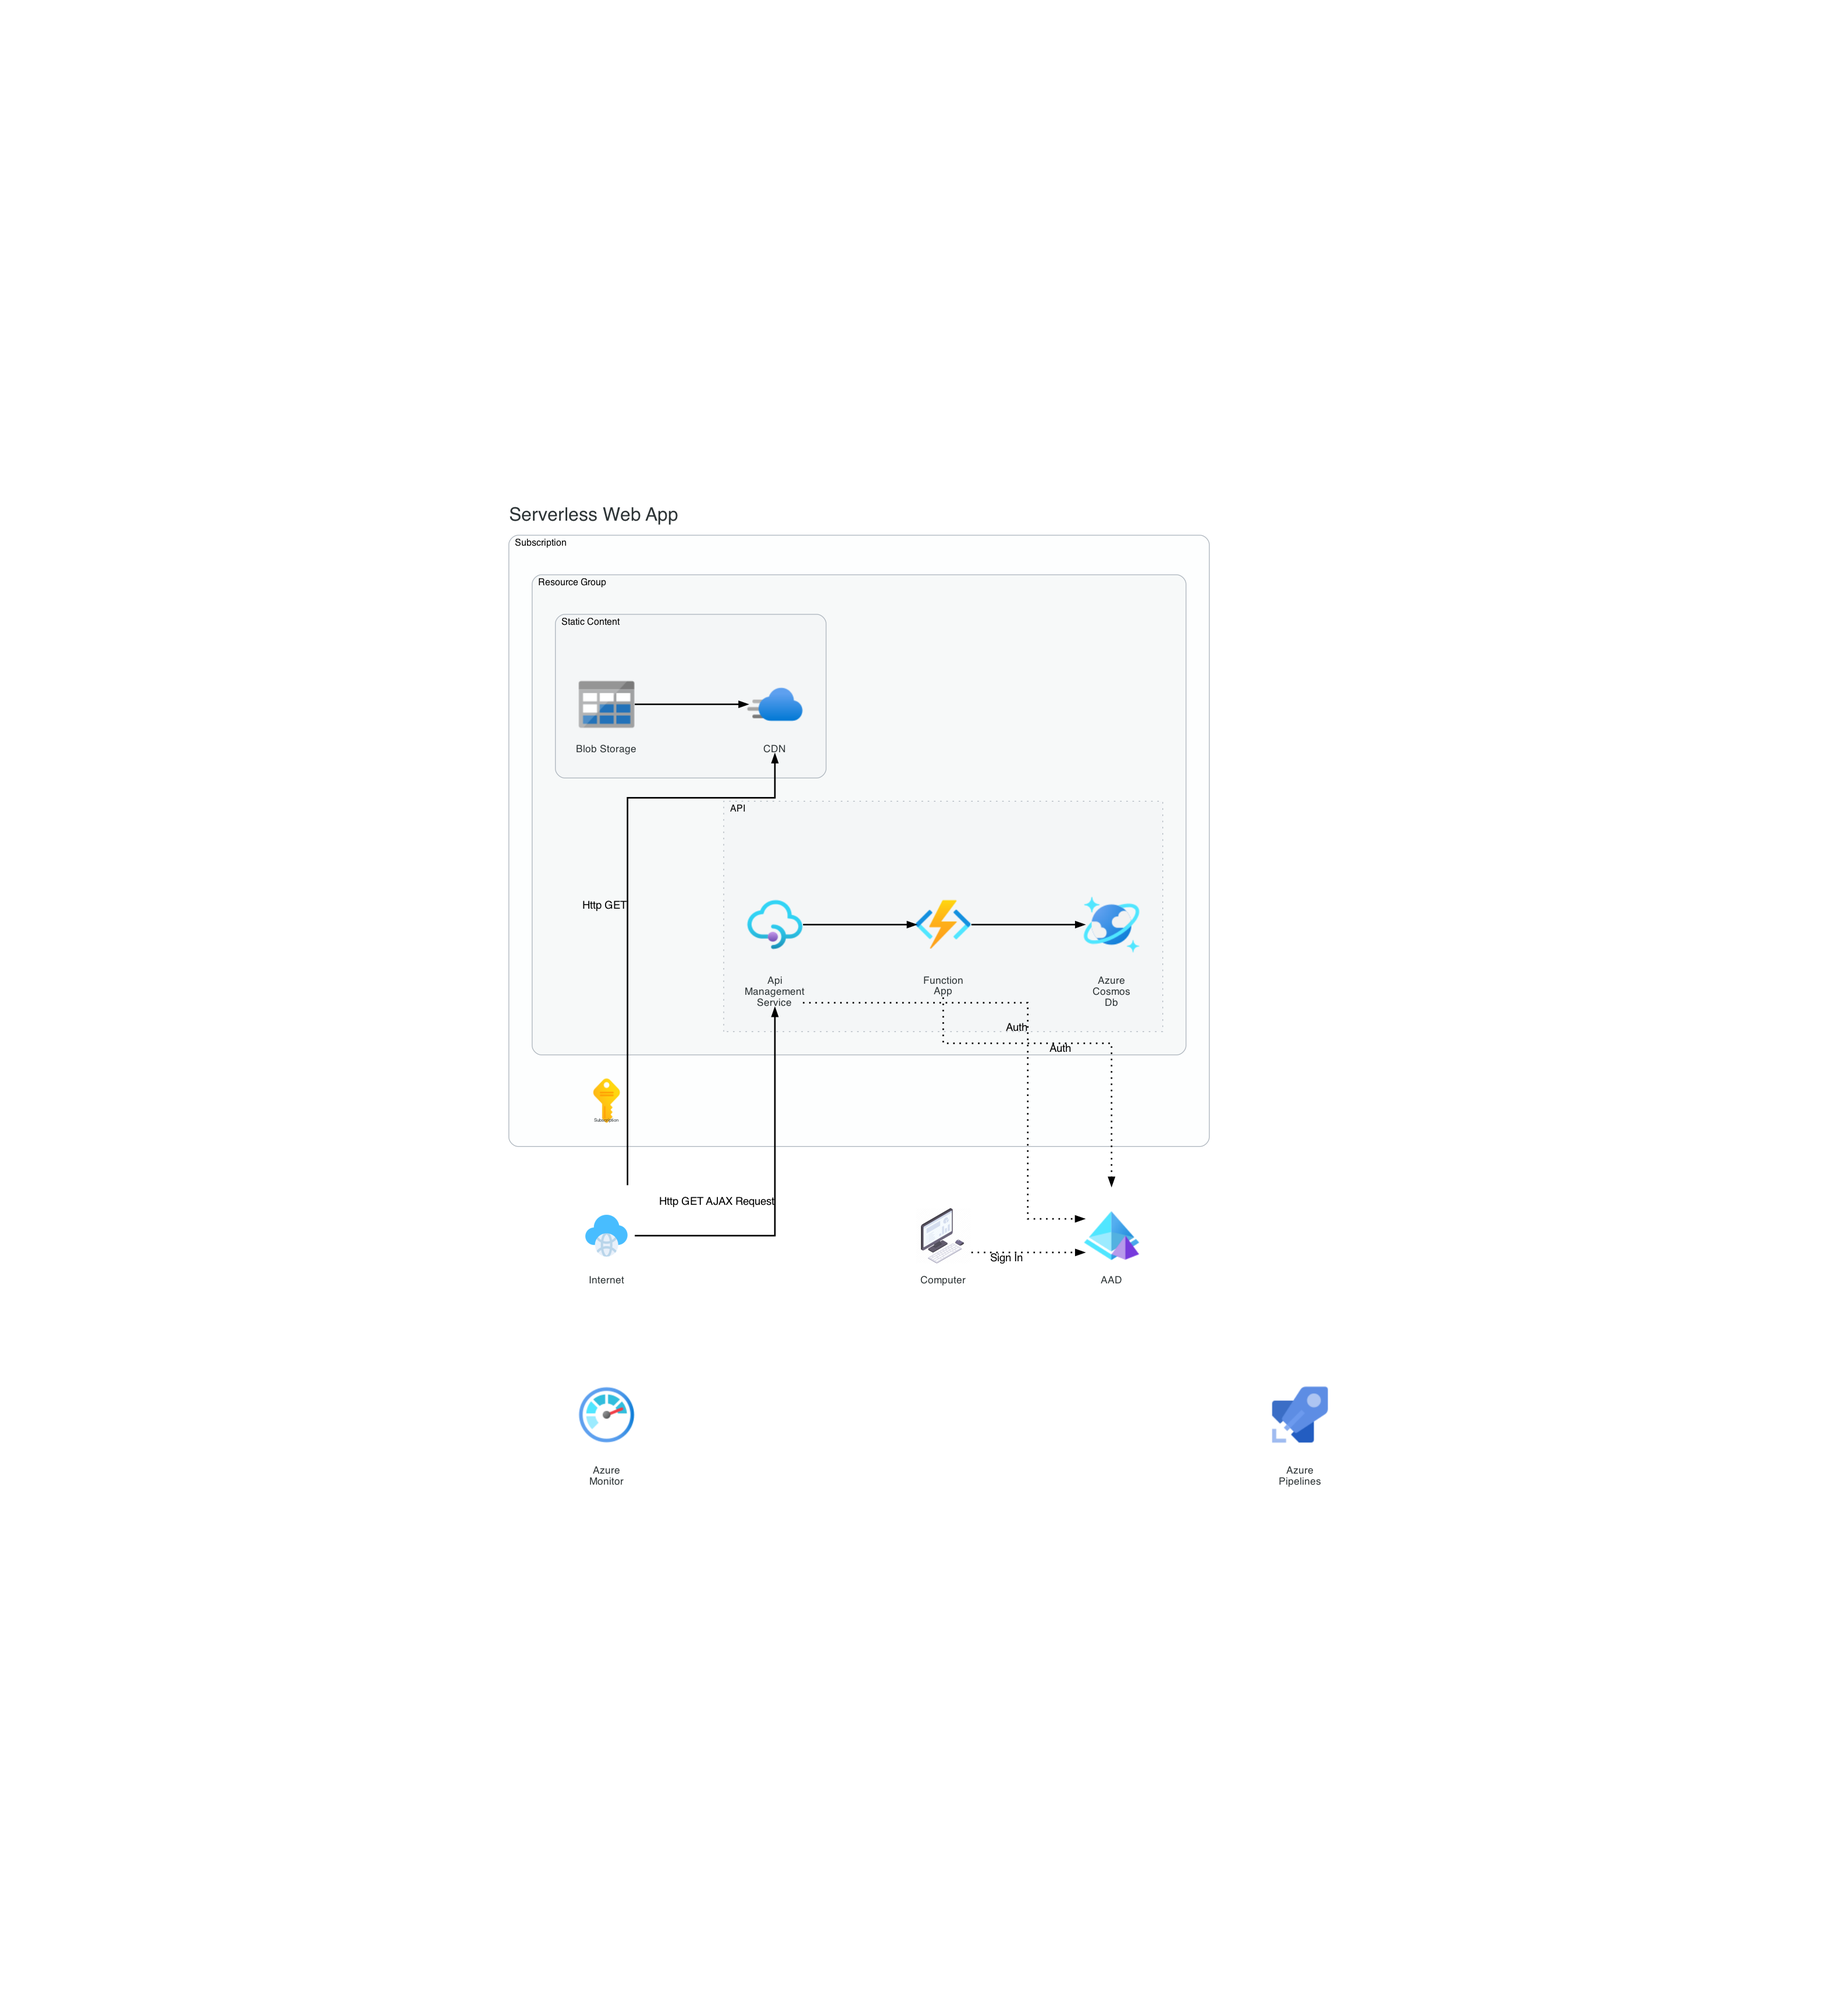
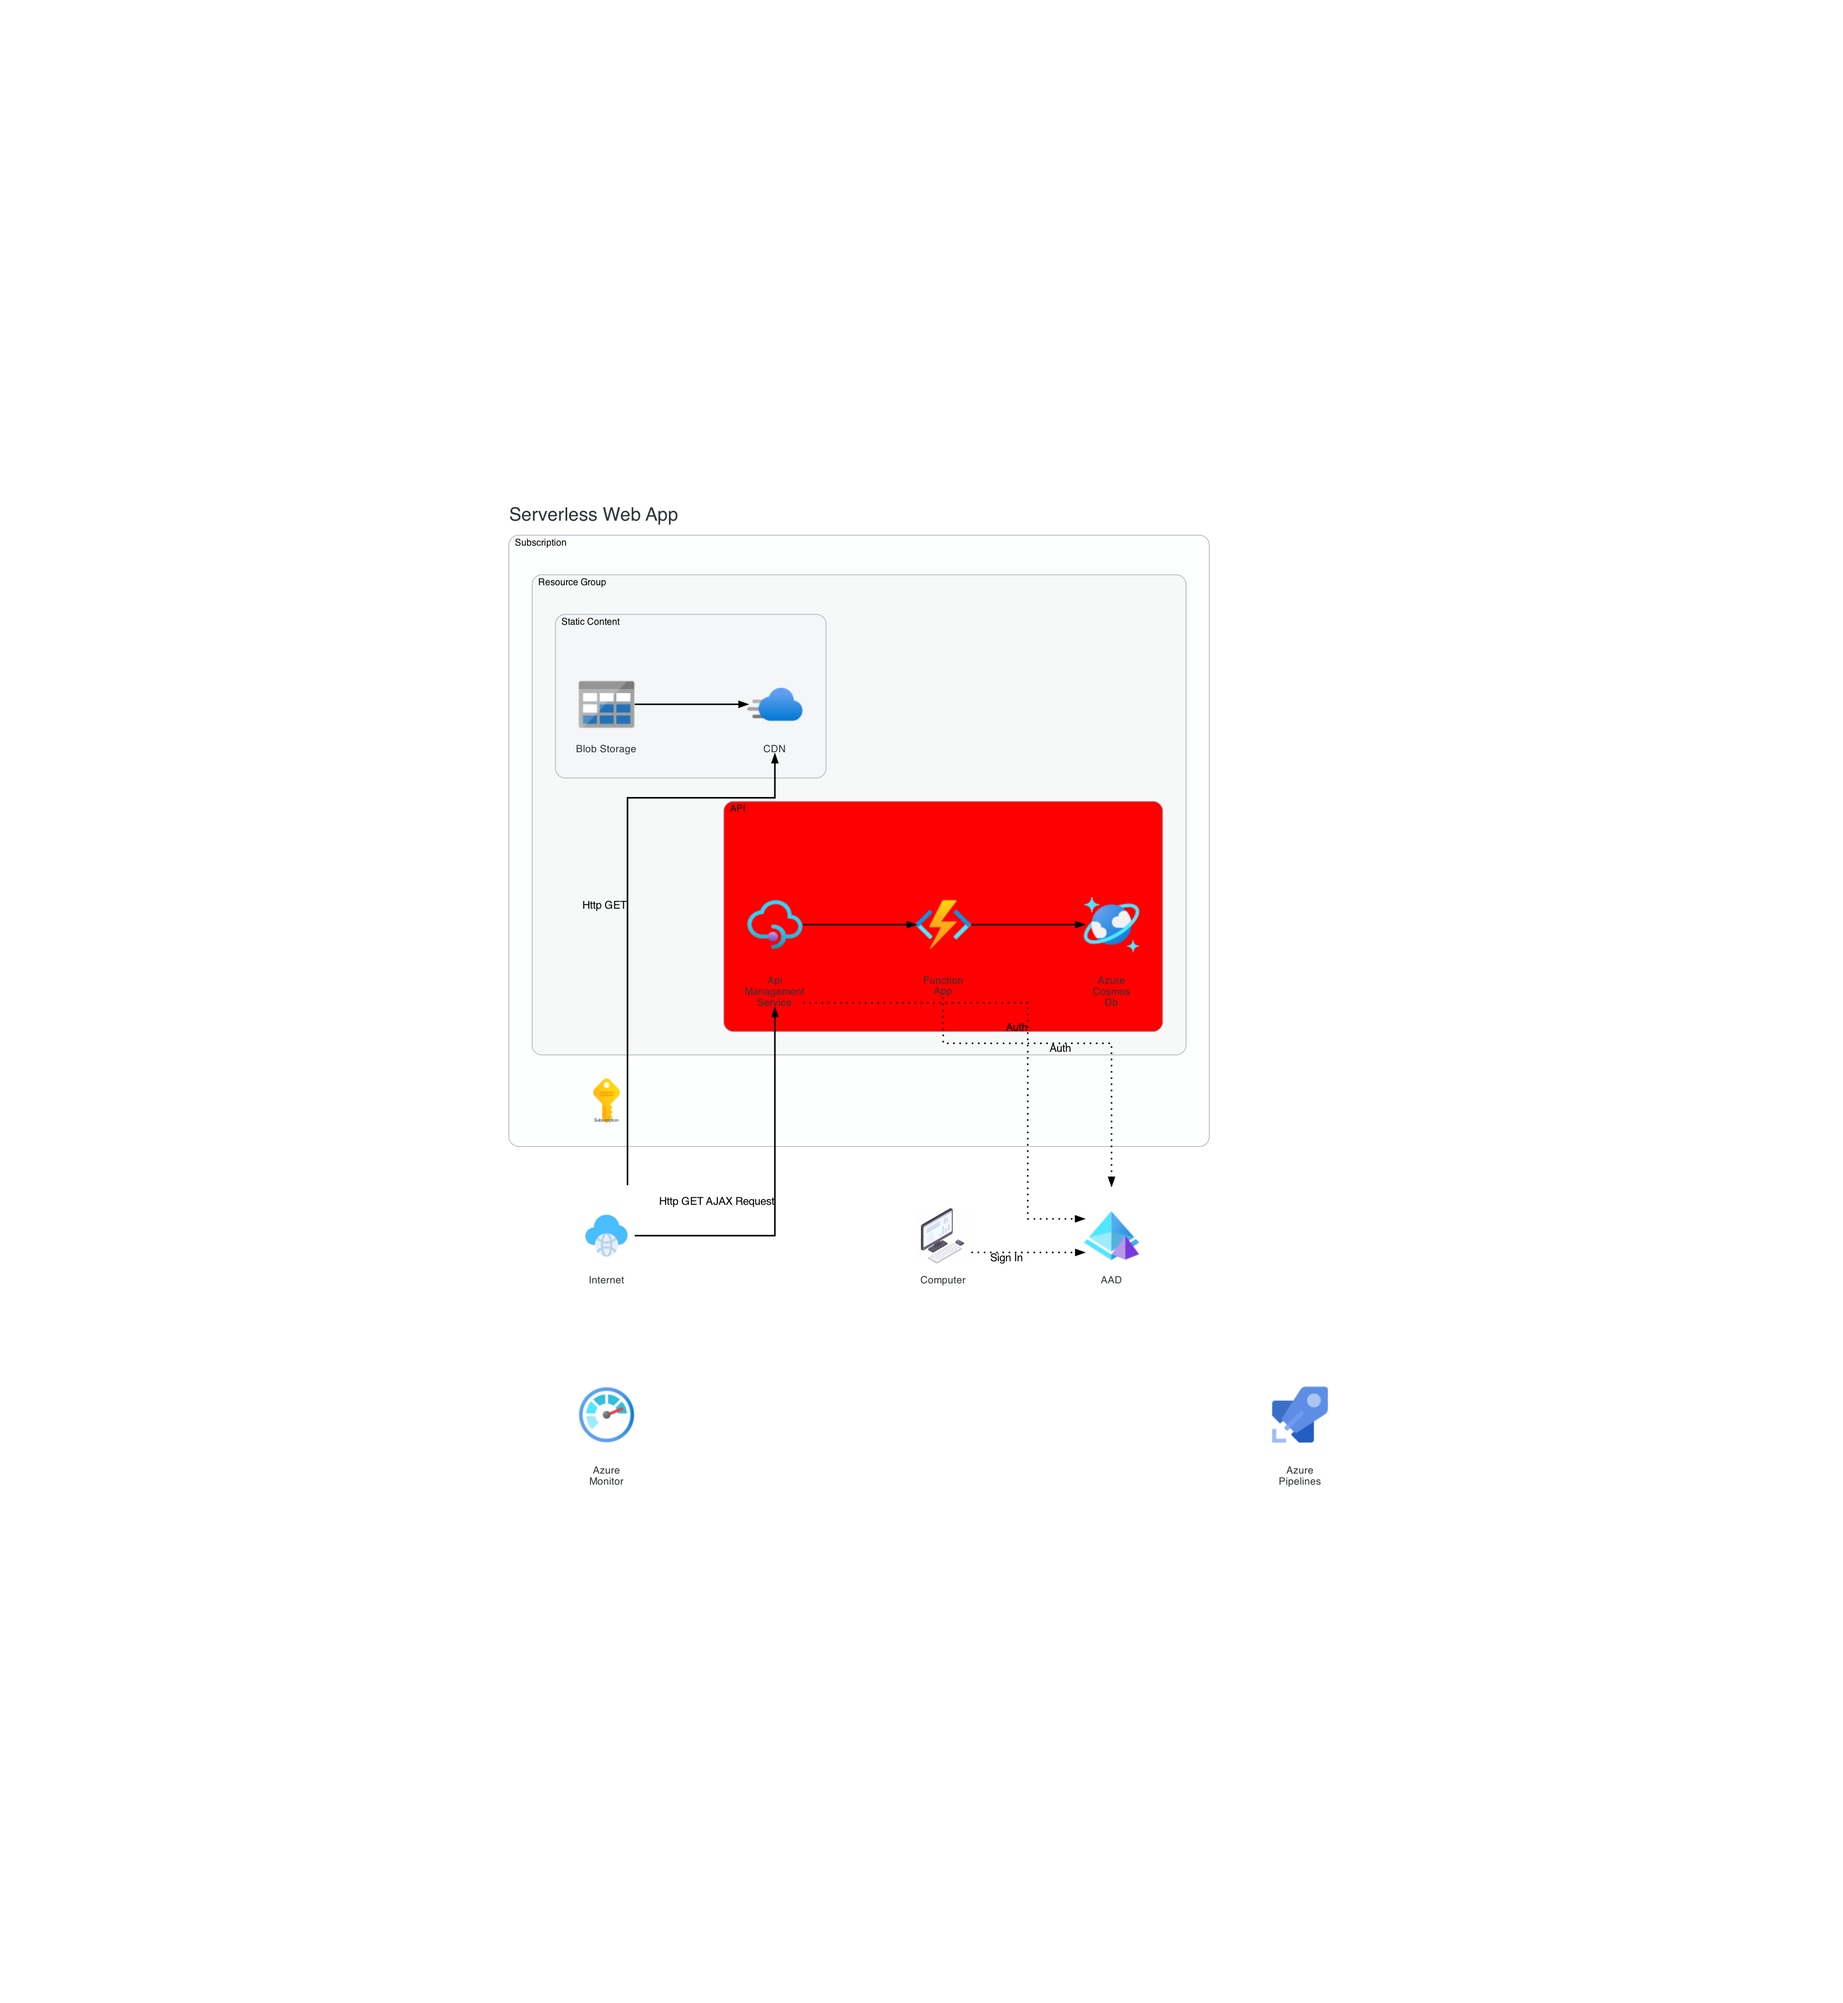
updated code to allow bgcolor overrides

Changed region(s): [[0.375, 0.3729, 0.6562, 0.5283]]

diff --git a/architectures/core/__init__.py b/architectures/core/__init__.py
@@ -196,12 +196,6 @@ class Cluster():
         # Set cluster attributes based on the theme using copy to ensure the objects are independent
         self.dot.graph_attr.update(self._graph.theme.cluster_attrs)
 
-        # Override any values directly passed from the object
-        self.dot.graph_attr.update(attrs)
-
-        # Update cluster label
-        self.dot.graph_attr["label"] = self.label
-
         # Set cluster depth to allow for logic based on the nesting of clusters
         self._depth = self._cluster._depth + 1 if self._cluster else 0
 
@@ -212,6 +206,12 @@ class Cluster():
         if _colors:
             color_index = self._depth % len(_colors)
             self.dot.graph_attr["bgcolor"] = _colors[color_index]
+
+        # Update cluster label
+        self.dot.graph_attr["label"] = self.label
+
+        # Override any values directly passed from the object
+        self.dot.graph_attr.update(attrs)
 
 
     def __enter__(self):

diff --git a/examples/serverless-web-app.py b/examples/serverless-web-app.py
@@ -30,7 +30,7 @@ with Graph('Serverless Web App', theme=theme):
                 cdn = CdnProfile("CDN")
                 storage = StorageAccountBlobCool("Blob Storage")
 
-            with Cluster("API") as api:
+            with Cluster("API", bgcolor="red") as api:
                 api_management = ApiManagementService()
                 function_app = FunctionApp()
                 cosmos_db = AzureCosmosDb()
